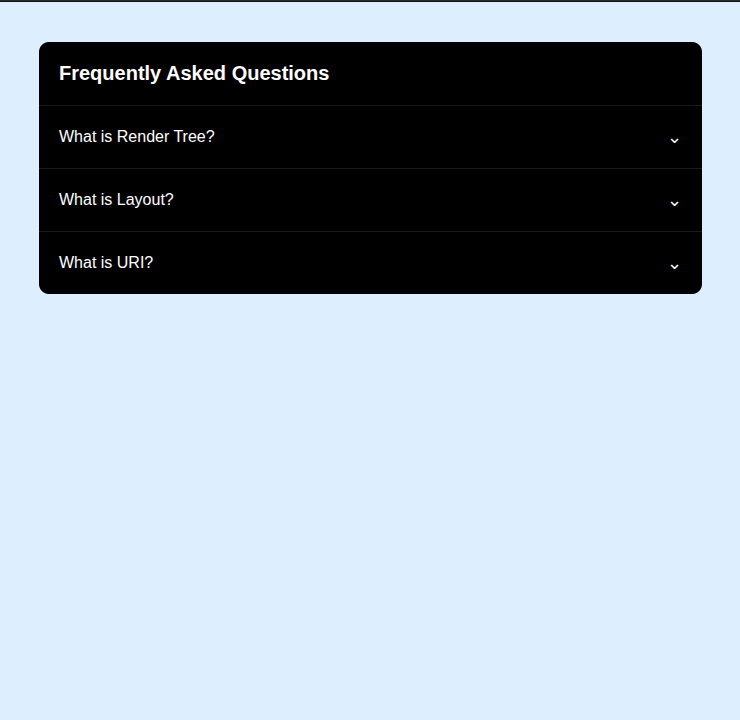
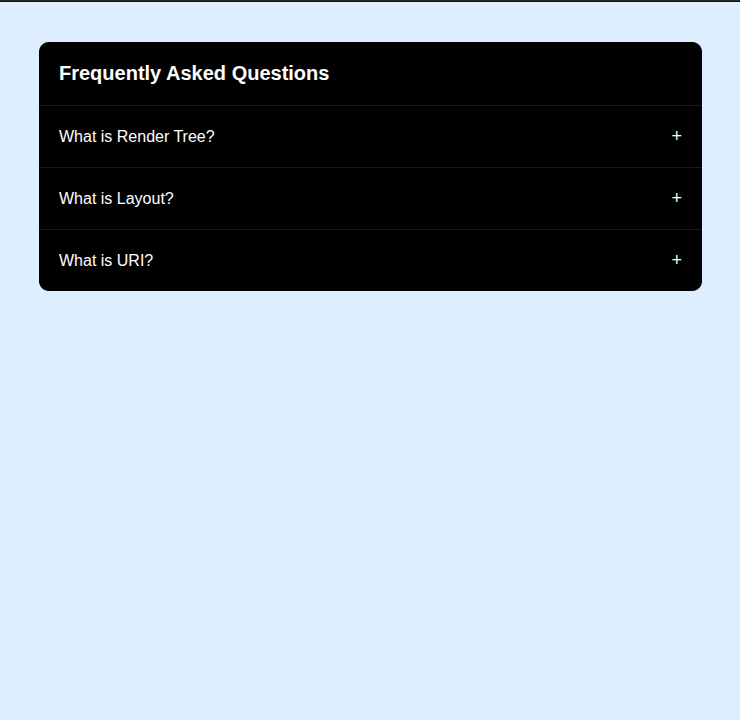
created day 4 and updated README

diff --git a/Week-2/day3/style.css b/Week-2/day3/style.css
@@ -41,7 +41,7 @@ justify-content: space-between;
 }
 
 .question::after {
-content: "⌄";
+content: "+";
 font-size: 18px;
 transition: transform 0.3s ease;
 }
@@ -59,5 +59,5 @@ display: block;
 }
 
 .faq.active .question::after {
-transform: rotate(180deg);
+transform: rotate(45deg);
 }

diff --git a/Week-2/README.md b/Week-2/README.md
@@ -16,10 +16,16 @@ week2-frontend/
 │   └── README.md
 ├── day3/
 │   ├── index.html
-│   │   ├── index.html
-│   │   ├── style.css
-│   │   └── script.js
-│   └── README.md│
+│   ├── style.css
+│   ├── script.js
+│   ├── screenshots/
+│   └── README.md
+├── day4/
+│   ├── index.html
+│   ├── style.css
+│   ├── script.js
+│   ├── screenshots/
+│   └── README.md
 └── README.md
 ```
 ## Day-1 HTML 5 Semantic Layout
@@ -45,3 +51,5 @@ week2-frontend/
 - Dynamically rendered HTML elements using DOM manipulation
 - Implemented click-based interaction using event listeners
 - Applied ES6 features like `const`, arrow functions, destructuring, and `forEach`
+
+## Day-4 JS utilities and Local Storage

diff --git a/Week-2/day4/README.md b/Week-2/day4/README.md
@@ -1,0 +1,13 @@
+# Day-4 JS Utilities and LocalStorage
+
+## Folder Structure:
+
+```text
+|—Day4
+  |—index.html
+  |—style.css
+  |—script.js
+  |—screenshots
+  |—README.md
+```
+## Tasks Done:
